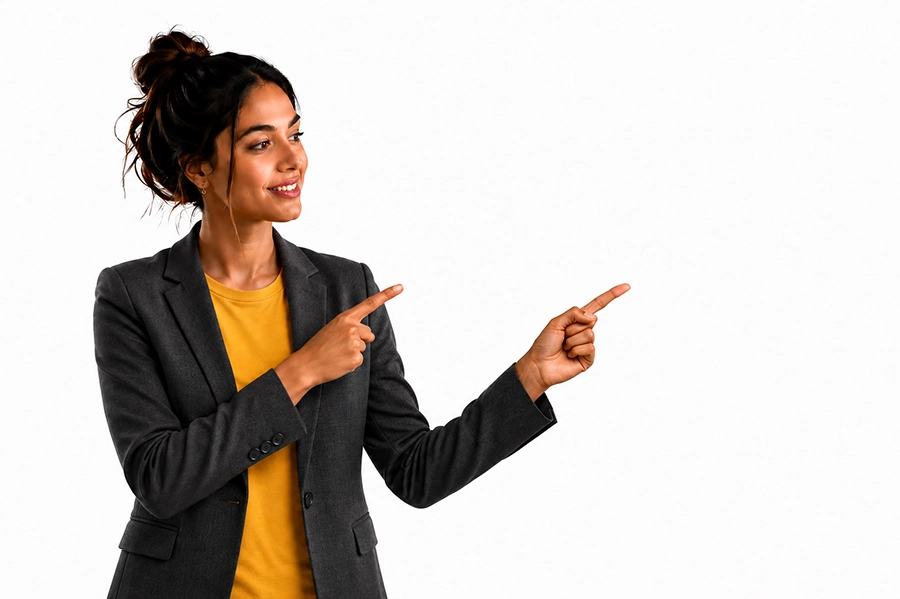
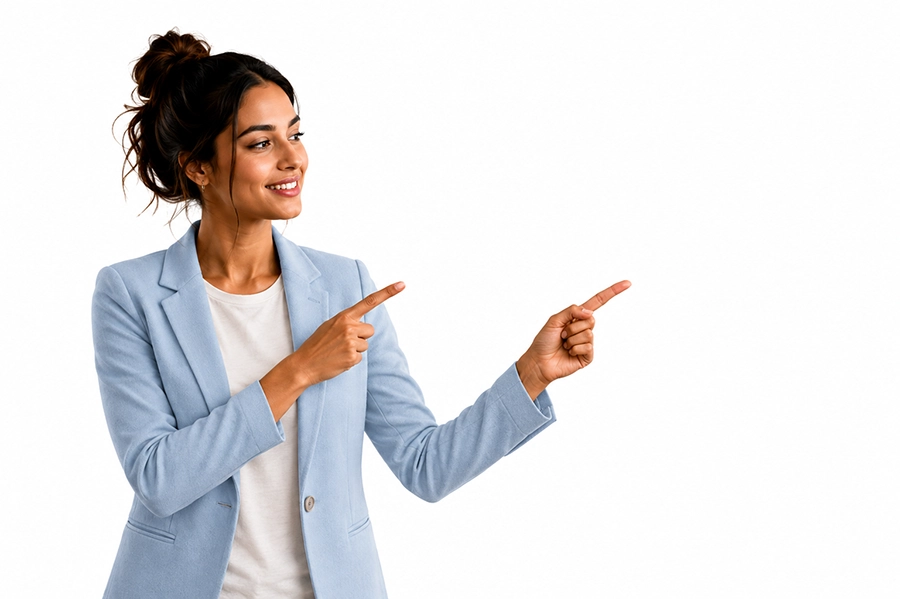
minor feat(header):information access for external & referentsContacts

Changed region(s): [[0.0933, 0.0301, 0.7156, 1.0]]

diff --git a/src/app/header/header.component.html b/src/app/header/header.component.html
@@ -527,7 +527,7 @@
                     <!-- fin tuteurs -->
 
                     <!-- pour marketing momentanné -->
-                    <li *ngIf="userRole?.includes('editor') || userRole?.includes('data-analyst')"
+                    <li *ngIf="userRole?.includes('editor') || userRole?.includes('data-analyst') || userRole?.includes('external') || userRole?.includes('referentsContacts') "
                         class="nav-item dropdown" [routerLinkActive]="['active']">
                         <a class="nav-link dropdown-toggle" href="#" role="button"
                             data-bs-toggle="dropdown">Informations
@@ -538,41 +538,44 @@
                             <li>
                                 <a class="dropdown-item" (click)="closeNavbar()" target="_blank"
                                     rel="noopener noreferrer" role="button"
-                                    aria-label="Information prescripteurs et recruteurs partenaires"
+                                    aria-label="Informations prescripteurs et recruteurs partenaires"
                                     [routerLink]="['market-app']">Mission de l'application</a>
                             </li>
+                            <li><hr></li>
                             <li><a class="dropdown-item" (click)="closeNavbar()" target="_blank"
                                     rel="noopener noreferrer" role="button" aria-label="Tous les centres en ligne"
-                                    [routerLink]="['centersIndex']">Nos
-                                    Centres</a>
+                                    [routerLink]="['centersIndex']">Index des Centres</a>
                             </li>
                             <li><a class="dropdown-item" (click)="closeNavbar()" target="_blank"
                                     rel="noopener noreferrer" role="button" aria-label="Toutes les formations"
-                                    [routerLink]="['trainingsIndex']">Nos
-                                    formations</a>
+                                    [routerLink]="['trainingsIndex']">Index des Formations</a>
                             </li>
                             <li><a class="dropdown-item" (click)="closeNavbar()" target="_blank"
                                     rel="noopener noreferrer" role="button" aria-label="Tous les comptes professionnels"
-                                    [routerLink]="['/admin/professionalsList']">Nos comptes
-                                    professionnels</a>
+                                    [routerLink]="['/admin/professionalsList']">Comptes
+                                    Professionnels</a>
                             </li>
                             <li><a class="dropdown-item" (click)="closeNavbar()" target="_blank"
                                     rel="noopener noreferrer" role="button"
                                     aria-label="Types de candidats par inscription formation"
                                     (click)="navigateTo('trainingStats')">Typologie des candidats</a>
                             </li>
+                            <li><hr>
+
+                            </li>
+                            
+
                             <!-- pour le kit média version publique -->
-                            <li *ngIf="userRole?.includes('editor')"><a class="dropdown-item" (click)="closeNavbar()"
+                            <li><a class="dropdown-item" (click)="closeNavbar()"
                                     target="_blank" rel="noopener noreferrer" role="button"
                                     aria-label="Types de candidats par inscription formation"
                                     (click)="navigateTo('marketing-pack')">Kit médias VS public</a>
                             </li>
-                            <li *ngIf="userRole?.includes('editor')"><a class="dropdown-item" (click)="closeNavbar()"
+                            <li><a class="dropdown-item" (click)="closeNavbar()"
                                     target="_blank" rel="noopener noreferrer" role="button"
                                     aria-label="Types de candidats par inscription formation"
                                     (click)="navigateTo('news')">News/Articles VS public</a>
                             </li>
-
 
                         </ul>
                     </li>

diff --git a/src/app/header/header.component.ts b/src/app/header/header.component.ts
@@ -377,7 +377,11 @@ if (this.userRole?.includes('external') && this.userUid) {
     } else if (this.userRole?.includes('editor')) {
       // Rediriger vers support Tuteurs
       this.router.navigate(['/market-app']);
-    } else {
+    }    else if (this.userRole?.includes('external') || this.userRole?.includes('referentsContacts') ) {
+      // Rediriger vers support Tuteurs
+      this.router.navigate(['/market-app']);
+    } 
+    else {
       // Rediriger vers une route interne de l'application
       this.router.navigate(['/benefits']);
     }
